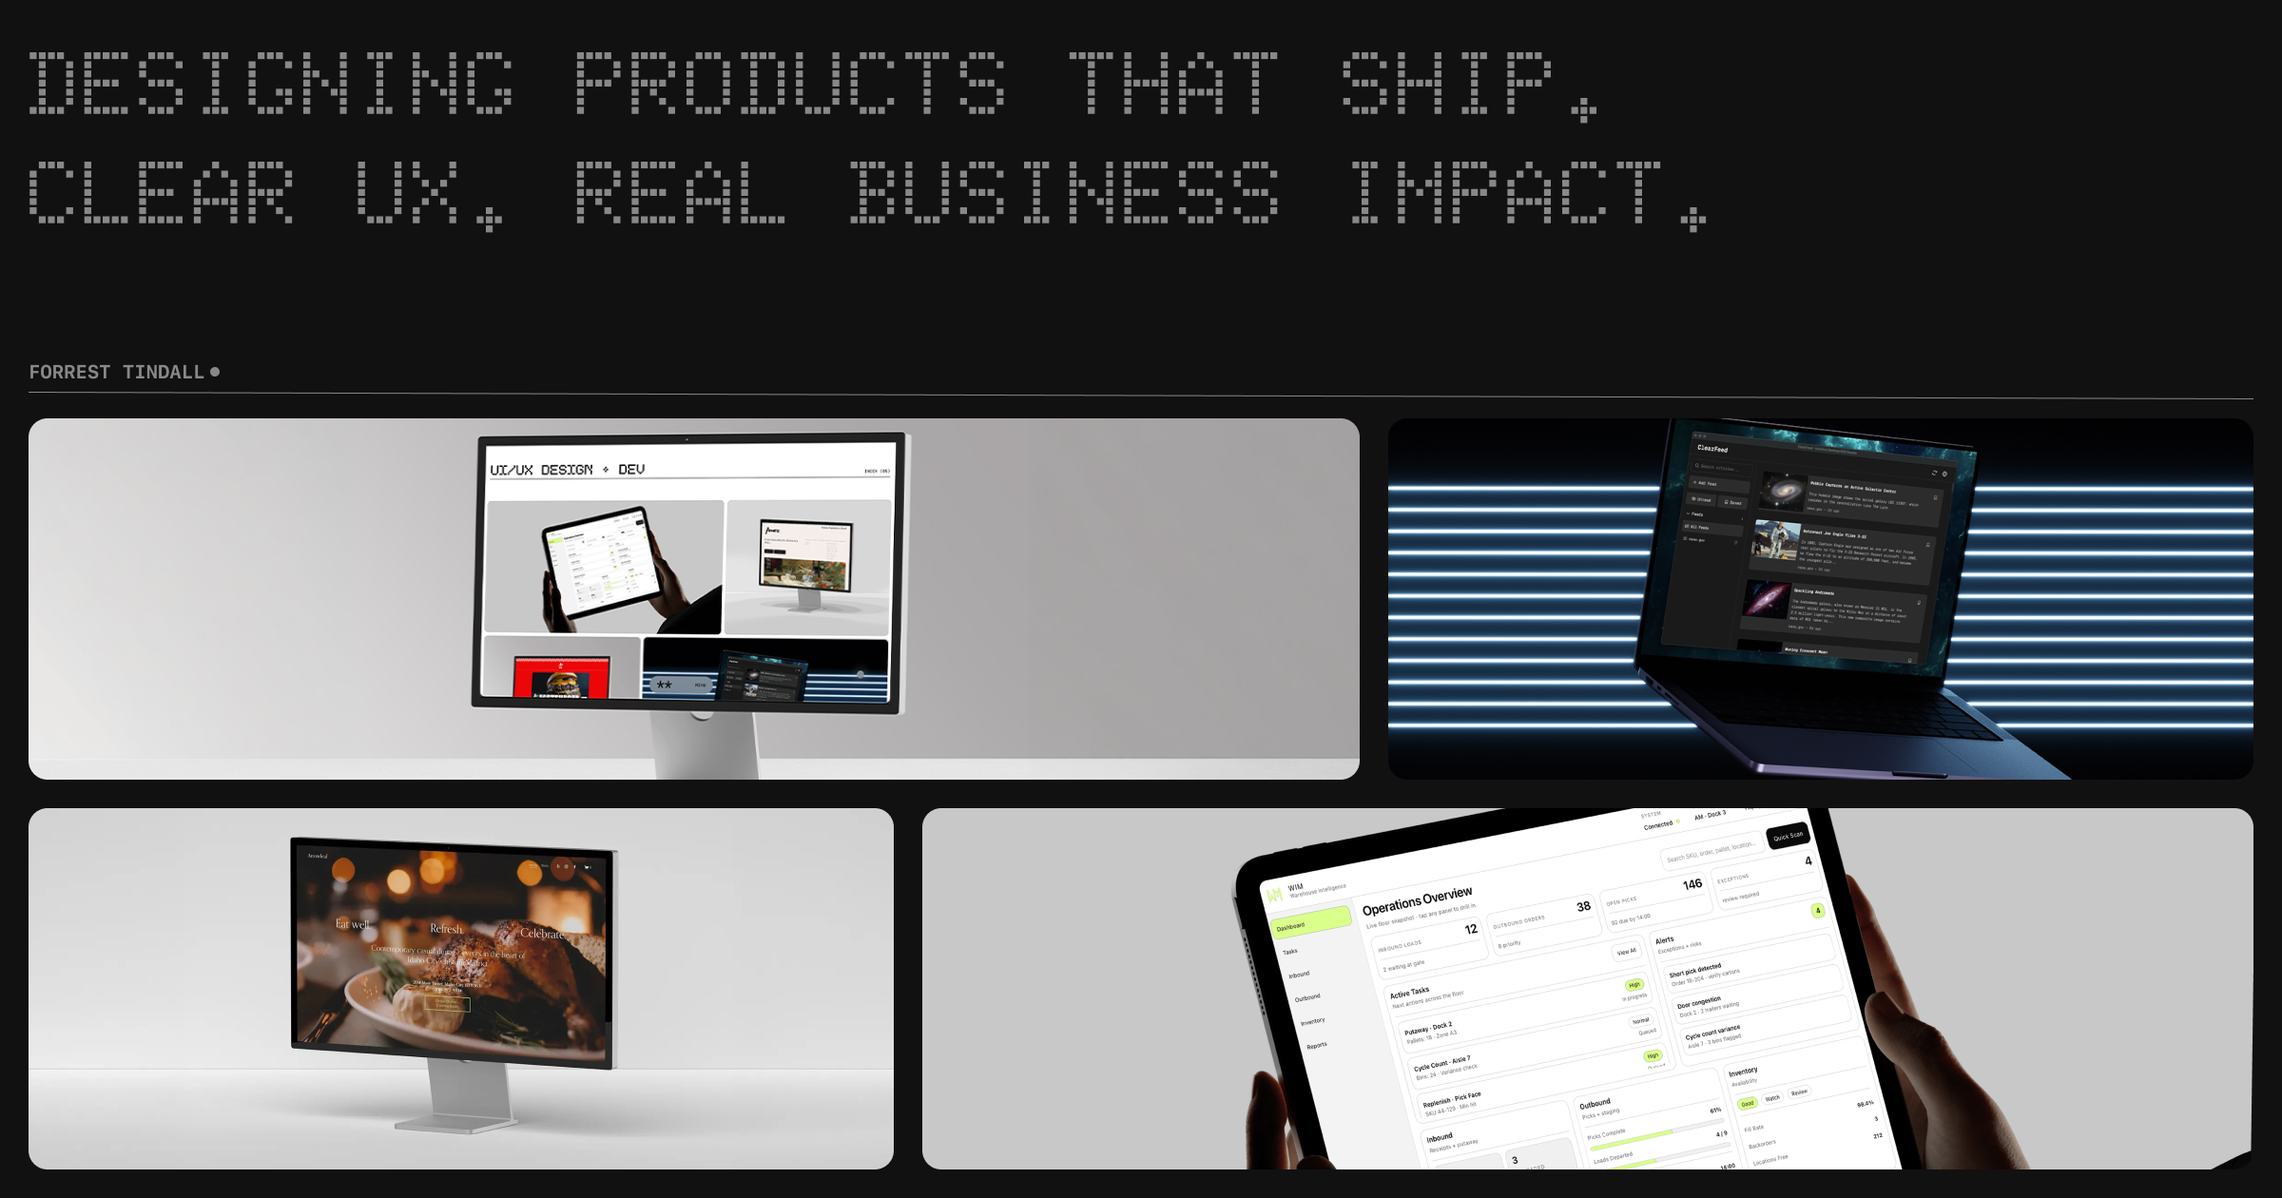
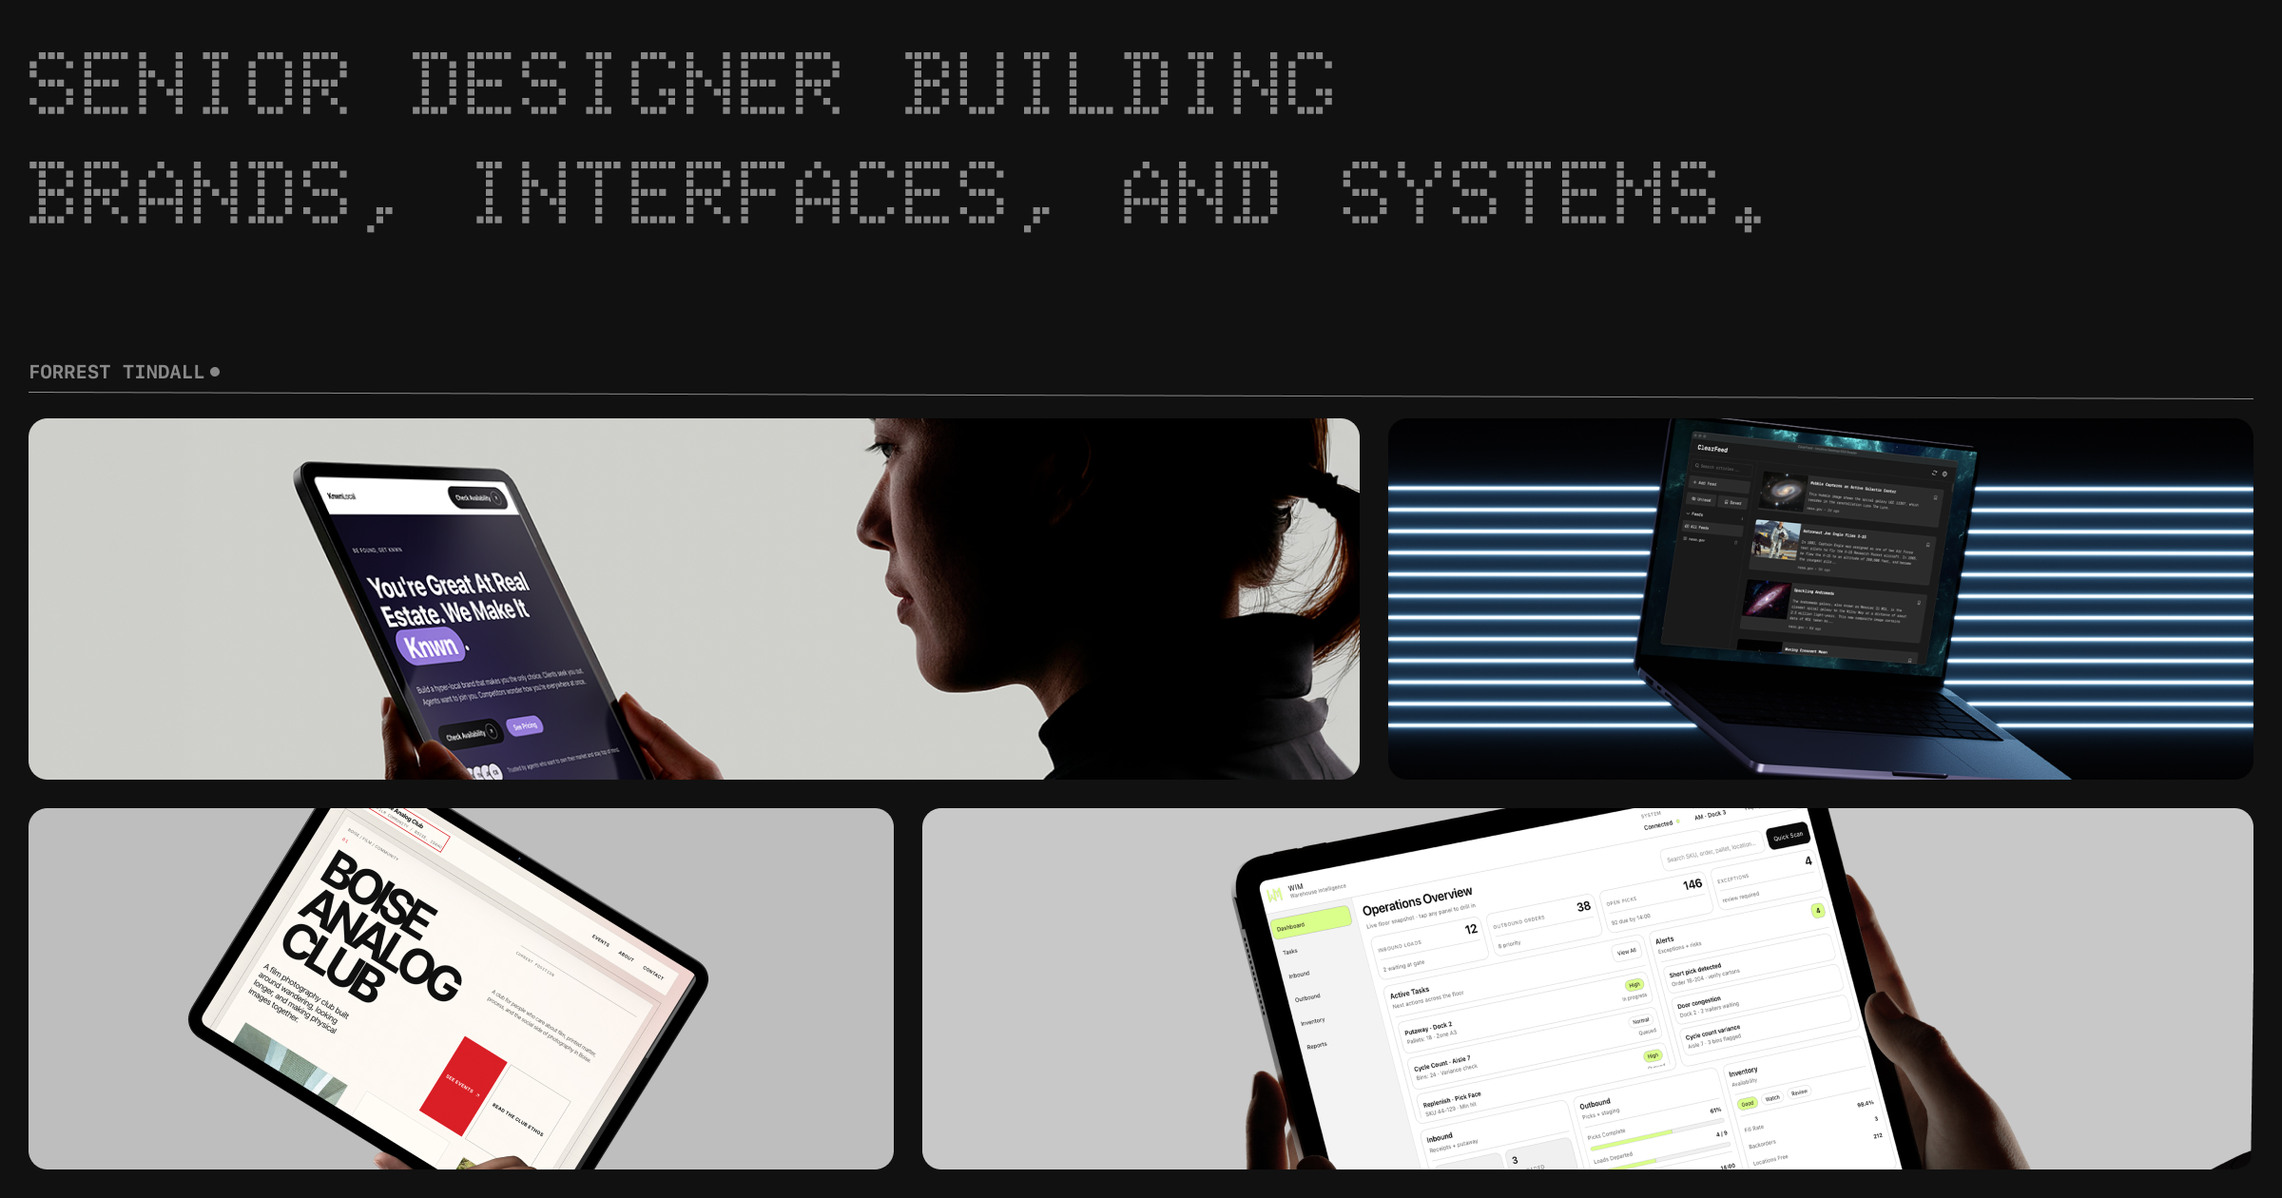
cb update

diff --git a/src/components/CreationbaseProject.jsx b/src/components/CreationbaseProject.jsx
@@ -1,0 +1,187 @@
+import { useEffect, useState } from 'react';
+import { motion } from 'framer-motion';
+import DecryptText from './DecryptText';
+import ProjectNarrative from './ProjectNarrative';
+
+const BLACK = 'var(--color-bg)';
+const WHITE = 'var(--color-text)';
+
+const CREATIONBASE_IMAGES = [
+  { src: '/images/creationbase%20website%20consultancy.webp', alt: 'Creationbase website consultancy mockup' },
+  { src: '/images/Creationbase%20T-shirt%20Mockup.webp', alt: 'Creationbase t-shirt mockup' },
+  { src: '/images/creationbase%20A-Board%20Mockup.webp', alt: 'Creationbase A-Board mockup' },
+  { src: '/images/creationbase%20consultacy%20mockup%202.webp', alt: 'Creationbase studio display website mockup' },
+];
+
+const CREATIONBASE_NARRATIVE = {
+  meta: ['LOCATION( Boise, ID / Remote )', 'ROLE( Founder — Brand Identity, UI/UX, Creative Direction )', 'TECH( Figma, React, Framer Motion )'],
+  sections: [
+    {
+      label: 'Context',
+      text: 'Creationbase is a strategic creation consultancy built to help growing teams align brand, product, and digital execution under one coherent system. The studio operates across the entire product lifecycle — from identity work and positioning to production-ready UI code.',
+    },
+    {
+      label: 'Problem',
+      text: 'Consultancy brands often fall into one of two traps: they look corporate and lifeless, or they look stylized but unserious. The challenge was to build a brand that felt sharp, opinionated, and design-literate without sacrificing credibility with technical and operational stakeholders.',
+    },
+    {
+      label: 'Process',
+      text: 'I developed the visual identity system in parallel with the website structure, treating the UI as both a delivery medium and a brand surface. Motion, typography, and asset behavior were prototyped together rather than siloed into separate deliverables.',
+    },
+    {
+      label: 'Proposal',
+      text: 'The proposal centered on a minimalist but high-contrast typographic system, a tight motion vocabulary, and a set of modular brand assets (apparel, signage, collateral) that prove the identity works at every physical and digital scale.',
+    },
+    {
+      label: 'Result',
+      text: 'The final system ties brand identity, UI/UX, and creative direction into one cohesive studio expression at www.creationbase.io — a foundation that scales cleanly across client work, marketing, and in-studio operations.',
+    },
+  ],
+};
+
+const CreationbaseProject = () => {
+  useEffect(() => {
+    window.scrollTo(0, 0);
+  }, []);
+
+  const [loadedBySrc, setLoadedBySrc] = useState({});
+
+  useEffect(() => {
+    const adjustRowHeights = () => {
+      const isMobile = window.matchMedia('(max-width: 700px)').matches;
+      const maxRowH = Math.round(Math.max(480, Math.min(820, window.innerHeight * 0.72)));
+      const maxSingleRowH = Math.round(Math.max(580, Math.min(980, window.innerHeight * 0.82)));
+      const rows = Array.from(document.querySelectorAll('.wim-row'));
+      rows.forEach((row) => {
+        const frames = Array.from(row.querySelectorAll('.wim-frame'));
+        const imgs = Array.from(row.querySelectorAll('.wim-frame img'));
+        if (frames.length !== imgs.length || frames.length === 0) return;
+        if (isMobile) {
+          frames.forEach((frame) => {
+            frame.style.height = '';
+          });
+          return;
+        }
+        const heights = imgs.map((img, idx) => {
+          const frame = frames[idx];
+          const w = frame.getBoundingClientRect().width;
+          const naturalW = img.naturalWidth || w;
+          const naturalH = img.naturalHeight || w;
+          const ratio = naturalH / naturalW;
+          return Math.max(0, Math.round(w * ratio));
+        });
+        const single = row.classList.contains('wim-row--single');
+        const maxCap = single ? maxSingleRowH : maxRowH;
+        const minH = Math.min(...heights);
+        const targetH = Math.min(Math.max(minH, Math.round(maxCap * 0.72)), maxCap);
+        frames.forEach((frame) => {
+          frame.style.height = `${targetH}px`;
+        });
+      });
+    };
+    const onLoad = (ev) => {
+      if (ev && ev.target && ev.target.tagName === 'IMG') adjustRowHeights();
+    };
+    document.addEventListener('load', onLoad, true);
+    window.addEventListener('resize', adjustRowHeights);
+    const raf = requestAnimationFrame(adjustRowHeights);
+    return () => {
+      document.removeEventListener('load', onLoad, true);
+      window.removeEventListener('resize', adjustRowHeights);
+      cancelAnimationFrame(raf);
+    };
+  }, []);
+
+  return (
+    <motion.div
+      className="wim-page"
+      initial={{ opacity: 0 }}
+      animate={{ opacity: 1 }}
+      exit={{ opacity: 0 }}
+      data-header-theme="light"
+      style={{ background: BLACK, color: WHITE, minHeight: '100vh' }}
+    >
+      <section data-header-theme="light" style={{ position: 'relative', overflow: 'hidden', background: BLACK, color: WHITE }}>
+        <div style={{ minHeight: '42vh', display: 'flex', flexDirection: 'column', justifyContent: 'flex-start', gap: 'var(--spacing-lg)', padding: 'var(--spacing-md) var(--spacing-md) var(--spacing-sm)', position: 'relative', zIndex: 1 }}>
+          <h1 className="project-hero__title" style={{ marginBottom: 'auto' }}>
+            <div style={{ overflow: 'hidden', paddingBottom: '0.1em' }}>
+              <DecryptText as="span" text="Creationbase" trigger="mount" delay={200} duration={900} />
+            </div>
+          </h1>
+        </div>
+      </section>
+
+      <section style={{ padding: 'var(--spacing-md) 10px var(--spacing-xxl)' }}>
+        <div style={{ height: 1, background: 'var(--color-border)', marginLeft: -10, marginRight: -10 }} />
+        <div>
+          <div className="small-text" style={{ marginTop: 'var(--spacing-sm)', marginBottom: 20 }}>
+            <span style={{ fontWeight: 'var(--font-mono-weight-bold)' }}>CREATIONBASE</span>
+            <span> — STRATEGIC CREATION CONSULTANCY</span>
+            <span style={{ marginLeft: 'var(--spacing-md)' }}>
+              <a
+                href="https://www.creationbase.io"
+                target="_blank"
+                rel="noreferrer"
+                style={{ color: 'inherit', textDecoration: 'underline', textUnderlineOffset: '3px' }}
+              >
+                WWW.CREATIONBASE.IO
+              </a>
+            </span>
+          </div>
+          <div className="wim-rows">
+            {CREATIONBASE_IMAGES.reduce((rows, img, idx) => {
+              const rowIndex = Math.floor(idx / 2);
+              if (!rows[rowIndex]) rows[rowIndex] = [];
+              rows[rowIndex].push(img);
+              return rows;
+            }, []).map((row, rIdx) => {
+              const single = row.length === 1;
+              const rowClass = single ? 'wim-row wim-row--single' : (rIdx % 2 === 0 ? 'wim-row wim-row--left' : 'wim-row wim-row--right');
+              return (
+                <div key={`row-${rIdx}`} className={rowClass}>
+                  {row.map((image) => {
+                    const isLoaded = !!loadedBySrc[image.src];
+                    return (
+                      <motion.div
+                        key={image.src}
+                        className="wim-card"
+                        initial={{ opacity: 0, y: 50 }}
+                        whileInView={{ opacity: 1, y: 0 }}
+                        viewport={{ once: true, margin: '-10%' }}
+                        transition={{ duration: 0.6, ease: 'easeOut' }}
+                      >
+                        <div className={`wim-frame${isLoaded ? ' wim-frame--loaded' : ' wim-frame--loading'}`}>
+                          <div className="wim-skeleton" aria-hidden="true" />
+                          <img
+                            className="wim-img"
+                            src={image.src}
+                            alt={image.alt}
+                            loading="lazy"
+                            decoding="async"
+                            onLoad={() => {
+                              setLoadedBySrc((prev) => {
+                                if (prev[image.src]) return prev;
+                                return { ...prev, [image.src]: true };
+                              });
+                            }}
+                            onError={(ev) => {
+                              const card = ev.currentTarget.closest('.wim-card');
+                              if (card) card.style.display = 'none';
+                            }}
+                          />
+                        </div>
+                      </motion.div>
+                    );
+                  })}
+                </div>
+              );
+            })}
+          </div>
+        </div>
+      </section>
+      <ProjectNarrative eyebrow="CREATIONBASE" meta={CREATIONBASE_NARRATIVE.meta} sections={CREATIONBASE_NARRATIVE.sections} />
+    </motion.div>
+  );
+};
+
+export default CreationbaseProject;

diff --git a/src/App.jsx b/src/App.jsx
@@ -10,6 +10,7 @@ import MicronProject from './components/MicronProject';
 import Playground from './components/Playground';
 import WimProject from './components/WimProject';
 import ContinuityProject from './components/ContinuityProject';
+import CreationbaseProject from './components/CreationbaseProject';
 import DecryptText from './components/DecryptText';
 import Schema from './components/Schema';
 import { Analytics } from '@vercel/analytics/react';
@@ -25,6 +26,17 @@ const HERO_AVAILABILITY = {
   color: '#5FE37C',
 };
 const INDEX01_PROJECTS = [
+  {
+    id: 'creationbase',
+    titleLines: ['Creationbase'],
+    scope: 'Scope(Brand Identity, UI/UX, Creative Direction)',
+    primaryImage: '/images/Creationbase%20T-shirt%20Mockup.webp',
+    primaryAlt: 'Creationbase t-shirt mockup',
+    secondaryImage: '/images/creationbase%20website%20consultancy.webp',
+    secondaryAlt: 'Creationbase website consultancy mockup',
+    secondaryFallbackImage: '/images/creationbase%20logo%20new%20png.webp',
+    sideOffset: 'clamp(3rem, 8vw, 6rem)',
+  },
   {
     id: 'bac',
     titleLines: ['Boise', 'Analog Club'],
@@ -176,6 +188,13 @@ const SiteFooter = ({
 
 const projects = [
   {
+    title: "Creationbase",
+    category: "Brand Identity + UI/UX + Creative Direction",
+    image: "/images/creationbase%20website%20consultancy.webp",
+    description: "Strategic creation consultancy — www.creationbase.io",
+    year: "2026"
+  },
+  {
     title: "Boise Analog Club",
     category: "UI/UX + Product Design",
     image: "/images/new%20mockeup.webp",
@@ -197,11 +216,11 @@ const projects = [
     year: "2026"
   },
   {
-    title: "Amore",
+    title: "Arrowleaf",
     category: "UI/UX Design & Dev",
-    image: "/images/amore mockup.webp",
-    description: "Restaurant website design in figma and dev in REACT",
-    year: "2025"
+    image: "/images/arrowleaf2.webp",
+    description: "Website design in figma and dev in REACT",
+    year: "2024"
   },
   {
     title: "Clearfeed",
@@ -209,13 +228,6 @@ const projects = [
     image: "/images/clearfeed.webp",
     description: "Desktop application design in figma and dev in ELECTRON",
     year: "2025"
-  },
-  {
-    title: "Arrowleaf",
-    category: "UI/UX Design & Dev",
-    image: "/images/arrowleaf2.webp",
-    description: "Website design in figma and dev in REACT",
-    year: "2024"
   },
 ];
 
@@ -329,6 +341,10 @@ const FOOTER_CAROUSEL_IMAGES = [
   { src: '/images/wim safety shirt.webp', alt: 'WIM safety shirt mockup footer carousel image' },
   { src: '/images/wim truck mockup.webp', alt: 'WIM truck mockup footer carousel image' },
   { src: '/images/wim HAT MOCKUP.webp', alt: 'WIM hat mockup footer carousel image' },
+  { src: '/images/creationbase%20website%20consultancy.webp', alt: 'Creationbase website consultancy footer carousel image' },
+  { src: '/images/Creationbase%20T-shirt%20Mockup.webp', alt: 'Creationbase t-shirt mockup footer carousel image' },
+  { src: '/images/creationbase%20A-Board%20Mockup.webp', alt: 'Creationbase A-Board mockup footer carousel image' },
+  { src: '/images/creationbase%20consultacy%20mockup%202.webp', alt: 'Creationbase studio display footer carousel image' },
 ];
 
 const ProjectModal = ({ project, onClose }) => {
@@ -854,7 +870,8 @@ function App() {
     homeScrollYRef.current = y;
     sessionStorage.setItem('homeScrollY', String(y));
     pendingHomeScrollRestoreRef.current = true;
-    if (id === 'wim') navigate('/wim');
+    if (id === 'creationbase') navigate('/creationbase');
+    else if (id === 'wim') navigate('/wim');
     else if (id === 'continuity') navigate('/continuity');
     else if (id === 'knwnlocal') navigate('/knwnlocal');
     else if (id === 'bac') navigate('/boise-analog-club');
@@ -910,7 +927,8 @@ function App() {
 
   useEffect(() => {
     const pathname = location.pathname;
-    if (pathname === '/wim') setActiveCaseStudy('wim');
+    if (pathname === '/creationbase') setActiveCaseStudy('creationbase');
+    else if (pathname === '/wim') setActiveCaseStudy('wim');
     else if (pathname === '/fastburger') {
       setActiveCaseStudy(null);
       navigate('/', { replace: true });
@@ -1152,6 +1170,8 @@ function App() {
       >
         {activeCaseStudy === 'contact' ? (
           <Contact key="contact" />
+        ) : activeCaseStudy === 'creationbase' ? (
+          <CreationbaseProject key="creationbase" />
         ) : activeCaseStudy === 'wim' ? (
           <WimProject key="wim" />
         ) : activeCaseStudy === 'continuity' ? (

diff --git a/src/components/MicronProject.jsx b/src/components/MicronProject.jsx
@@ -48,11 +48,20 @@ const MicronProject = () => {
 
   useEffect(() => {
     const adjustRowHeights = () => {
+      const isMobile = window.matchMedia('(max-width: 700px)').matches;
+      const maxRowH = Math.round(Math.max(480, Math.min(820, window.innerHeight * 0.72)));
+      const maxSingleRowH = Math.round(Math.max(580, Math.min(980, window.innerHeight * 0.82)));
       const rows = Array.from(document.querySelectorAll('.wim-row'));
       rows.forEach((row) => {
         const frames = Array.from(row.querySelectorAll('.wim-frame'));
         const imgs = Array.from(row.querySelectorAll('.wim-frame img'));
         if (frames.length !== imgs.length || frames.length === 0) return;
+        if (isMobile) {
+          frames.forEach((frame) => {
+            frame.style.height = '';
+          });
+          return;
+        }
         const heights = imgs.map((img, idx) => {
           const frame = frames[idx];
           const w = frame.getBoundingClientRect().width;
@@ -61,9 +70,12 @@ const MicronProject = () => {
           const ratio = naturalH / naturalW;
           return Math.max(0, Math.round(w * ratio));
         });
+        const single = row.classList.contains('wim-row--single');
+        const maxCap = single ? maxSingleRowH : maxRowH;
         const minH = Math.min(...heights);
+        const targetH = Math.min(Math.max(minH, Math.round(maxCap * 0.72)), maxCap);
         frames.forEach((frame) => {
-          frame.style.height = `${minH}px`;
+          frame.style.height = `${targetH}px`;
         });
       });
     };
@@ -93,7 +105,7 @@ const MicronProject = () => {
         <div style={{ minHeight: '42vh', display: 'flex', flexDirection: 'column', justifyContent: 'flex-start', gap: 'var(--spacing-lg)', padding: 'var(--spacing-md) var(--spacing-md) var(--spacing-sm)', position: 'relative', zIndex: 1 }}>
           <h1 className="project-hero__title" style={{ marginBottom: 'auto' }}>
             <div style={{ overflow: 'hidden', paddingBottom: '0.1em' }}>
-              <DecryptText as="span" text="ACCESSIBLE BY DESIGN" trigger="mount" delay={200} duration={900} />
+              <DecryptText as="span" text="Micron" trigger="mount" delay={200} duration={900} />
             </div>
           </h1>
         </div>

diff --git a/src/components/KnwnLocalProject.jsx b/src/components/KnwnLocalProject.jsx
@@ -50,11 +50,20 @@ const KnwnLocalProject = () => {
 
   useEffect(() => {
     const adjustRowHeights = () => {
+      const isMobile = window.matchMedia('(max-width: 700px)').matches;
+      const maxRowH = Math.round(Math.max(480, Math.min(820, window.innerHeight * 0.72)));
+      const maxSingleRowH = Math.round(Math.max(580, Math.min(980, window.innerHeight * 0.82)));
       const rows = Array.from(document.querySelectorAll('.knwnlocal-row'));
       rows.forEach((row) => {
         const frames = Array.from(row.querySelectorAll('.knwnlocal-frame'));
         const imgs = Array.from(row.querySelectorAll('.knwnlocal-frame img'));
         if (frames.length !== imgs.length || frames.length === 0) return;
+        if (isMobile) {
+          frames.forEach((frame) => {
+            frame.style.height = '';
+          });
+          return;
+        }
         const heights = imgs.map((img, idx) => {
           const frame = frames[idx];
           const w = frame.getBoundingClientRect().width;
@@ -63,9 +72,12 @@ const KnwnLocalProject = () => {
           const ratio = naturalH / naturalW;
           return Math.max(0, Math.round(w * ratio));
         });
+        const single = row.classList.contains('knwnlocal-row--single');
+        const maxCap = single ? maxSingleRowH : maxRowH;
         const minH = Math.min(...heights);
+        const targetH = Math.min(Math.max(minH, Math.round(maxCap * 0.72)), maxCap);
         frames.forEach((frame) => {
-          frame.style.height = `${minH}px`;
+          frame.style.height = `${targetH}px`;
         });
       });
     };
